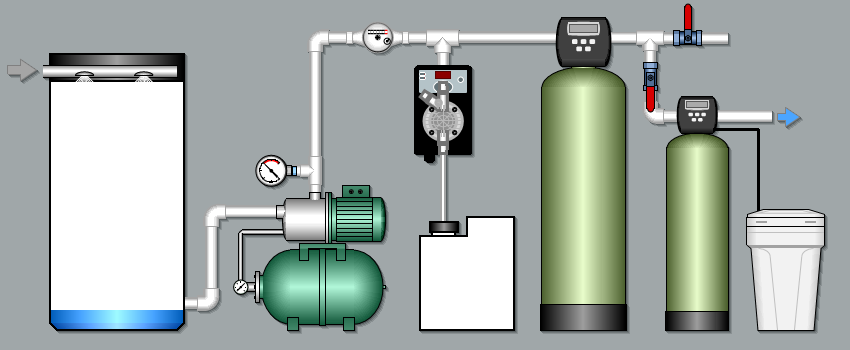
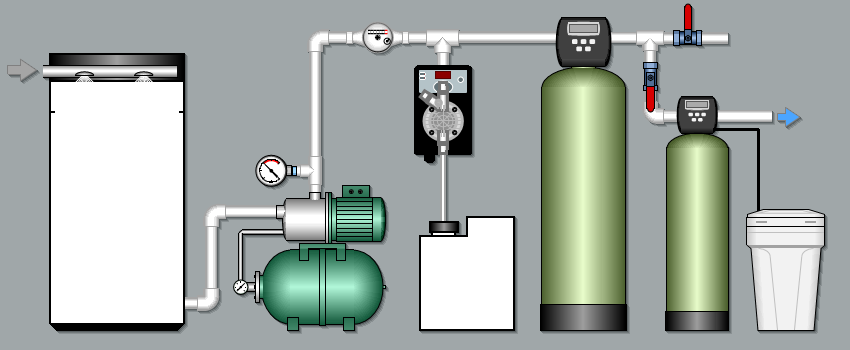
tank level

Changed region(s): [[0.0612, 0.8857, 0.2141, 0.9429]]

diff --git a/Web/style.css b/Web/style.css
@@ -107,7 +107,7 @@ body.test #get_tblrelay span{display:none}
[8 lines of base64/hex data omitted]

diff --git a/Web/scripts.js b/Web/scripts.js
@@ -178,11 +178,11 @@ function loadParam(paramid, noretry, resultdiv) {
 												content += '<td>' +count[j]+ '</td>';
 												content += '<td id="get_npress-' +P+ '"></td>';
 												content += '<td id="get_press-' +P+ '" nowrap>-</td>';
-												content += '<td nowrap><input id="get_minpress-' +P+ '" type="number" min="-1" max="50" step="0.01"><input type="submit" value=">" onclick="setParam(\'get_minPress(' +count[j]+ ')\');"></td>';
-												content += '<td nowrap><input id="get_maxpress-' +P+ '" type="number" min="-1" max="50" step="0.01"><input type="submit" value=">" onclick="setParam(\'get_maxPress(' +count[j]+ ')\');"></td>';
-												content += '<td nowrap><input id="get_zeropress-' +P+ '" type="number" min="0" max="2048" step="1"><input type="submit" value=">" onclick="setParam(\'get_zeroPress(' +count[j]+ ')\');"></td>';
-												content += '<td nowrap><input id="get_transpress-' +P+ '" type="number" min="0" max="4" step="0.001"><input type="submit" value=">" onclick="setParam(\'get_transPress(' +count[j]+ ')\');"></td>';
-												content += '<td nowrap><input id="get_testpress-' +P+ '" type="number" min="-1" max="50" step="0.01"><input type="submit" value=">" onclick="setParam(\'get_testPress(' +count[j]+ ')\');"></td>';
+												content += '<td nowrap><input id="get_minpress-' +P+ '" type="number" step="0.01"><input type="submit" value=">" onclick="setParam(\'get_minPress(' +count[j]+ ')\');"></td>';
+												content += '<td nowrap><input id="get_maxpress-' +P+ '" type="number" step="0.01"><input type="submit" value=">" onclick="setParam(\'get_maxPress(' +count[j]+ ')\');"></td>';
+												content += '<td nowrap><input id="get_zeropress-' +P+ '" type="number" step="1"><input type="submit" value=">" onclick="setParam(\'get_zeroPress(' +count[j]+ ')\');"></td>';
+												content += '<td nowrap><input id="get_transpress-' +P+ '" type="number" step="0.001"><input type="submit" value=">" onclick="setParam(\'get_transPress(' +count[j]+ ')\');"></td>';
+												content += '<td nowrap><input id="get_testpress-' +P+ '" type="number" step="0.01"><input type="submit" value=">" onclick="setParam(\'get_testPress(' +count[j]+ ')\');"></td>';
 												content += '<td id="get_pinpress-' +P+ '">-</td>';
 												content += '<td id="get_adcpress-' +P+ '">-</td>';
 												content += '<td id="get_epress-' +P+ '">-</td>';

diff --git a/Web/sensorsp.html b/Web/sensorsp.html
@@ -20,7 +20,7 @@ window.onload = function() {
 	loadParam("get_tblInput");
 	loadParam("get_listPress");
 	loadParam("get_PWM(NAME),get_PWM(NOTE),get_Wgt(P),get_Wgt(0)");
-	updateParam("get_PWM(V),get_PWM(P),get_PWM(ERR),get_Wgt(L),get_Wgt(W),get_Wgt(T),get_Wgt(N),get_Wgt(K),get_Wgt(A)");
+	updateParam("get_PWM(V),get_PWM(P),get_PWM(ERR),get_Wgt(LvL),get_Wgt(W),get_Wgt(T),get_Wgt(N),get_Wgt(K),get_Wgt(A)");
 	updateParam("get_PWM(K)");
 	updateParam("get_PWM(I)");
 	updateParam("get_PWM(E)");
@@ -154,7 +154,7 @@ function loadParam_after(paramid) {
 		<th>Пины DOUT,SCK</th>
 	</tr></thead>
 	<tbody><tr>
-		<td id="get_wgt-l"></td><td id="get_wgt-w"></td><td id="get_wgt-a"></td>
+		<td id="get_wgt-lvl"></td><td id="get_wgt-w"></td><td id="get_wgt-a"></td>
 		<td nowrap=""><input id="get_wgt-0" type="number" step="1" style="max-width:80"><input type="submit" value=">" onclick="setParam('get_Wgt(0)');"></td>
 		<td nowrap=""><input id="get_wgt-t" type="number" step="0.1"><input type="submit" value=">" onclick="setParam('get_Wgt(T)');"></td>
 		<td nowrap=""><input id="get_wgt-n" type="number" step="0.1"><input type="submit" value=">" onclick="setParam('get_Wgt(N)');"></td>

diff --git a/Web/config.html b/Web/config.html
@@ -56,8 +56,8 @@
 			<td nowrap><input id="get_opt-wrm" type="number" step="0.01"> <input type="submit" value=">" onclick="setParam('get_Opt(WRM)');"></td>
 		</tr>
 		<tr>
-			<td>Низкий уровень воды в баке для включения заполнения, %</td>
-			<td nowrap><input id="get_opt-tl" type="number" step="0.1"> <input type="submit" value=">" onclick="setParam('get_Opt(TL)');"></td>
+			<td>Уровень пустого бака - авария, %</td>
+			<td nowrap><input id="get_opt-tl" type="number" step="0.01"> <input type="submit" value=">" onclick="setParam('get_Opt(TL)');"></td>
 		</tr>
 		<tr>
 			<td><b>Защиты</b></td><td></td>

diff --git a/Web/plan.html b/Web/plan.html
@@ -28,8 +28,8 @@
 	<div id="get_relay-rbst2" style="display:none"></div>
 	<div id="get_relay-rfill" style="display:none"></div>
 	<div id="get_relay-rfeedp" style="display:none"></div>
-	<div id="get_presslvl-ltank" name="Top-325" style="height:0;max-height:190"></div>
-	<div id="get_wgt-lvl" name="Top-324" style="height:0;max-height:90"></div>
+	<div id="get_presslvl-ltank" name="Top-318" style="height:0;max-height:212"></div>
+	<div id="get_wgt-lvl" name="Top-324" style="height:0;max-height:92"></div>
 	<div id="get_input-reg" style="display:none"></div>
 	<div id="get_input-bwash" style="display:none"></div>
 	<span id="get_flow-flow" class="blue">-.-</span>

diff --git a/Web/relay.html b/Web/relay.html
@@ -6,6 +6,7 @@
 	<link rel="stylesheet" type="text/css" href="style.css">
 	<script type='text/javascript' src='scripts.js'></script>
 	<script type="text/javascript">
+		urltimeout = 2000;
 		window.onload = function() {
 		loadParam("get_tblRelay,get_tblPwrC");
 	};

diff --git a/WaterTreatment/Hardware.h b/WaterTreatment/Hardware.h
@@ -229,21 +229,24 @@ private:
 class devRelay
 {
 public:
-  void initRelay(int sensor);                            // Инициализация реле
+  void    initRelay(int sensor);                            // Инициализация реле
   __attribute__((always_inline)) inline int8_t  set_ON() {return set_Relay(fR_StatusMain);}    // Включить реле
   __attribute__((always_inline)) inline int8_t  set_OFF(){return set_Relay(-fR_StatusMain);}   // Выключить реле
   int8_t  set_Relay(int8_t r);                           // Установить реле в состояние (0/-1 - выкл основной алгоритм, fR_Status* - включить, -fR_Status* - выключить)
   __attribute__((always_inline)) inline boolean get_Relay(){return Relay;}                    // Прочитать состояние реле
+  __attribute__((always_inline)) inline boolean get_RelayTimerOn(){ return TimerOn ? true : Relay; }                    // Прочитать состояние реле
   int8_t  get_pinD(){return pin;}                        // Получить ногу куда прицеплено реле
   char*   get_note(){return note;}                       // Получить наименование реле
   char*   get_name(){return name;}                       // Получить имя реле
   __attribute__((always_inline)) inline boolean get_present(){return GETBIT(flags,fPresent);} // Наличие датчика в текущей конфигурации
   void    set_testMode(TEST_MODE t){testMode=t;}       // Установить значение текущий режим работы
+  void    NextTimerOn(void);
   byte flags;                                           // флаги  0 - наличие реле, 1.. - fR_Status*
 private:
-   uint8_t number;										// Номер массива реле
-   boolean Relay;                                        // Состояние реле
+   uint8_t  number;										// Номер массива реле
+   boolean  Relay;                                        // Состояние реле
    uint8_t  pin;                                         // Ножка куда прицеплено реле
+   uint32_t TimerOn;									// мсек, Время показа активного состояния
    TEST_MODE testMode;                                  // Значение режима тестирования
    char *note;                                           // наименование реле
    char *name;                                           // Имя реле

diff --git a/WaterTreatment/Config.h b/WaterTreatment/Config.h
@@ -381,15 +381,15 @@ struct History_setup {
 											 1	// A6(D60), INA4-20_1.2 - (+12V)-красный, INA4-20_1.1 - (-12V)-черный.
 										};
 	// Коэффициент преобразования отсчеты АЦП-давление, тысячные
-	const uint16_t TRANsADC[ANUMBER]  = { 181, 200 };
+	const uint16_t TRANsADC[ANUMBER]  = { 181, 2442 };
 	// напряжение (отсчеты АЦП) соответсвующее cZero
-	const uint16_t ZEROPRESS[ANUMBER] = { 70, 80 };
+	const uint16_t ZEROPRESS[ANUMBER] = { 70, 0 };
 
-	const boolean SENSORPRESS[ANUMBER]= { true, true };	// Присутствие датчика в конфигурации
-	const int16_t MINPRESS[ANUMBER]   = {  250, 0 };	// минимальные значения давления, в сотых бар
-	const uint16_t MAXPRESS[ANUMBER]  = {  370, 0 };	// Максимальные значения давления, в сотых бар
-	const uint16_t TESTPRESS[ANUMBER] = {  300, 0 };	// Значения датчиков при тестировании  опция TEST, в сотых бар
-	//#define ANALOG_MODBUS 									// Данные аналоговых датчиков читаются по Modbus RTU
+	const boolean SENSORPRESS[ANUMBER]= { true, true };		// Присутствие датчика в конфигурации
+	const int16_t MINPRESS[ANUMBER]   = {  250, 500 };		// минимальные значения давления, в сотых
+	const uint16_t MAXPRESS[ANUMBER]  = {  370, 10000 };	// Максимальные значения давления, в сотых
+	const uint16_t TESTPRESS[ANUMBER] = {  300, 8000 };		// Значения датчиков при тестировании  опция TEST, в сотых
+	//#define ANALOG_MODBUS 								// Данные аналоговых датчиков читаются по Modbus RTU
 	#ifdef ANALOG_MODBUS
 	  #define ANALOG_MODBUS_NUM_READ				3			// Число попыток чтения
 	  #define ANALOG_MODBUS_ERR_DELAY				50			// Задержка при ошибки чтения

diff --git a/WaterTreatment/MainClass.h b/WaterTreatment/MainClass.h
@@ -56,7 +56,7 @@ struct type_RTC_memory { // DS3231/DS3232 used alarm memory, starts from 0x07, m
 } __attribute__((packed));
 
 
-int8_t   WaterBoosterStatus = 0; // 0 - выключено, 1 - вкл твердотельное, 2 - вкл обычное, 3 - выкл твердотельное, -1 - выкл твердотельное, -2 - выкл обычное, -3 - нужно выключить (вкл твердотельное)
+int		 WaterBoosterStatus = 0; // 0 - выключено, 1 - вкл твердотельное, 2 - вкл обычное, 3 - выкл твердотельное, -1 - выкл твердотельное, -2 - выкл обычное, -3 - нужно выключить (вкл твердотельное)
 bool	 WaterBoosterError = false;
 uint32_t WaterBoosterWorkingTime = 0;
 bool	 FloodingError = false;
@@ -123,7 +123,7 @@ struct type_option {
 	uint16_t FloodingDebounceTime;		// Время исключения помех срабатывания датчика протечки, сек
 	uint16_t FloodingTimeout;			// Время ожидания перед началом работы после срабатывания датчика протечки, сек
 	int16_t  PWATER_RegMin;				// Нижний предел давления PWATER при регенерации, сотые бара
-	int16_t  LTANK_Low;					// Низкий уровень воды в баке - нужно включить заполнение бака до максимального
+	int16_t  LTANK_Empty;				// Низкий уровень воды в баке - нужно включить заполнение бака до максимального, сотые %
 
 } __attribute__((packed));
 

diff --git a/WaterTreatment/Constant.h b/WaterTreatment/Constant.h
@@ -104,7 +104,9 @@ const uint16_t  defaultPort=80;
 #define PWM_NUM_READ        2              // Число попыток чтения счетчика (подряд) до ошибки
 #define PWM_DELAY_REPEAT    50             // мсек Время между ПОВТОРНЫМИ попытками чтения
 
-#define DISPLAY_UPDATE    5000             // Время обновления информации на дисплее (мсек)
+#define DISPLAY_UPDATE		5000             // Время обновления информации на дисплее (мсек)
+
+#define TIMER_TO_SHOW_STATUS 2500			// мсек, Время показа активного состояния (дозирующего насоса, ...)
 
 // ------------------- I2C ----------------------------------
 // Устройства I2C Размер и тип памяти, определен в config.h т.к. он часто меняется
@@ -504,7 +506,7 @@ const char *webWS_UsedLastRegenSoftening  		= { "RSL" };
 #define ERR_PWM_MAX			-55			// Перегрузка двигателя насоса
 #define ERR_PRESS			-56			// Ошибка давления
 #define ERR_FLOODING		-57			// Затопление
-//#define ERR_TANK_EMPTY		-58			// Пустой бак! (defined in config.h)
+//#define ERR_TANK_EMPTY	-58			// Пустой бак! (defined in config.h)
 
 #define ERR_ERRMAX			-58 	   // Последняя ошибка
 

diff --git a/WaterTreatment/Util.h b/WaterTreatment/Util.h
@@ -27,9 +27,7 @@ int32_t round_div_int32(int32_t value, int16_t div);
 void    getIDchip(char *outstr);
 uint8_t update_RTC_store_memory(uint8_t &what_to_save);
 char* _itoa( int value, char *string);
-uint32_t i32toa(int32_t value, char *string, uint8_t zero_pad);
 uint8_t _ftoa(char *outstr, float val, unsigned char precision);
-void _dtoa(char *outstr, int32_t val, int32_t precision);
-
+void _dtoa(char *outstr, int val, int precision);
 
 #endif
